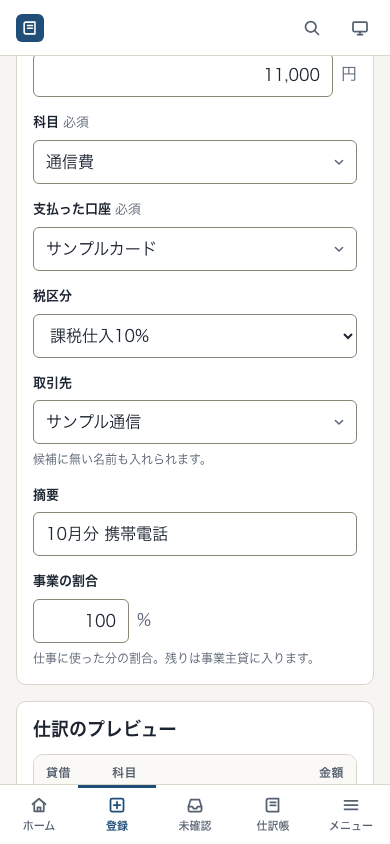
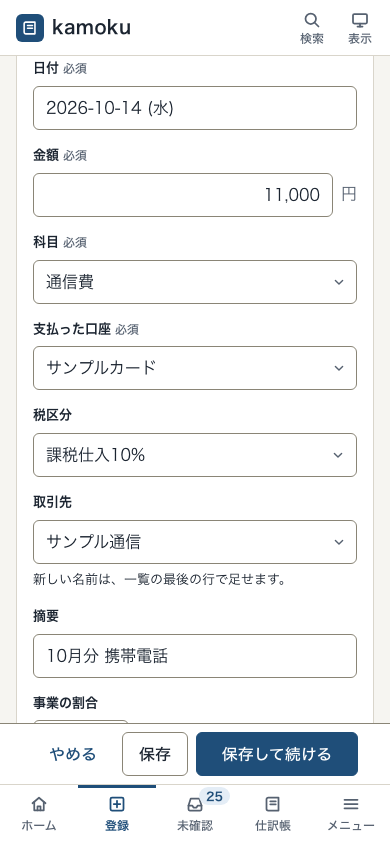
文書と画像: 画面の仕様・利用者向けの文書・権利の確認を、直した画面に合わせる
- 画面の仕様（docs/spec）: キー操作（1文字のショートカットを切る設定、戻り先、保存の帯）、
  各画面の決まり（未確認・取込・帳票・設定・初期設定・通知）、受け入れ条件 AC-10.5・AC-10.6、
  仕訳帳CSVのファイル名
- 利用者向けの文書: 画面の紹介、よくある質問（バックアップから戻す手順）
- 権利の確認記録（docs/legal/rights-check-ui-polish.md）: 依存・書体・画像を足していないこと、
  他社の画面・文言を写していないこと、会計の説明文をサーバーの計算と照らしたこと
- 文書用の画像（docs/images）: 直した画面で撮り直した

diff --git a/docs/spec/screens-main.md b/docs/spec/screens-main.md
@@ -4,6 +4,8 @@
 
 共通の枠は、左のサイドバー（幅1024px以上）と、画面下の5項目のバー（幅768px未満。ホーム・登録・未確認・仕訳帳・メニュー。メニューは全項目を引き出しで出す）です。768〜1023pxは、閉じられるサイドバーにします。サイドバーは「ホーム」「取引（登録・未確認・取込・仕訳帳）」「帳票」「登録簿（口座・勘定科目・取引先）」「設定」の順です。
 
+高さが520px以下の画面（文字を200%に拡大した画面など。幅767px以下）では、下のバーを隠し、上の帯の「メニュー」から全項目を開きます。下に固定した帯（確定の帯など）は画面の下の端に付けます。
+
 ## SC-01 ホーム `#/`
 
 ```
@@ -20,9 +22,10 @@
 ```
 
 - 一番上は「次にやること」。未確認が0件なら「未確認はありません」と、次の候補（月末なら帳票の確認）を出す。
-- 数字には、前の月との差を添える。利益が負なら「赤字」と書く。
+- 数字には、前の月との差を添える。利益が負なら「赤字」と書く。今月（と、記録のある先の月）はまだ途中なので、差と矢印の代わりに前の月の実額を「9月は 500,500円（1か月分）」と添える（丸1か月と比べると大きなマイナスに見えるため）。前の月が開業前なら何も出さず、開業した月で開業日が1日でなければ「1か月分」とは書かない。
+- 年の利益の期間は、開業日がその年の途中で、開業の月より前に記録が無いときだけ「4月〜10月」と書く。記録があれば、サーバーの集計どおり「1月〜」のまま。
 - 台帳の状態には、整合性（OK/要確認）、末尾のハッシュの先頭8桁、写し取るボタンを置く。
-- グラフは、今月より後の月を描かない（0へ落ちたように見えるため）。過去の年は12か月すべて描く。
+- グラフは、今月より後の月を描かない（0へ落ちたように見えるため）。過去の年は12か月すべて描く。凡例は名前だけ（売上・経費・利益）にし、棒・線・点の見分け方は凡例の下の1行にまとめる。赤字の月には、その月の列の真下（枠の下の帯）に額（例「-2.5万」）を添える。棒や点の上には載せない。隣り合う月で重なるときは次の段へずらし（段は2つまで）、それでも置けない月だけ省く。
 - 状態: 読込中は骨組み表示、データなしは「最初の取引を登録しましょう」。
 
 ## SC-02 取引を登録 `#/entry`、訂正 `#/entry/<id>`
@@ -43,7 +46,7 @@
 
 - 振替は、科目の代わりに「移動先の口座」を選ぶ。税区分と割合は出さない。
 - 免税事業者のときは、税区分の欄を隠す。隠れている間は、科目の既定の税区分を入れず、空（対象外）で送る。「詳細」で欄を出したときだけ、科目の既定値が入る。
-- 「仕訳で入力」に切り替えると、行を足せる表（借貸・科目・金額・税区分・メモ）になる。貸借の差を常に表示し、0のときだけ保存できる。
+- 「仕訳で入力」に切り替えると、行を足せる表（借貸・科目・金額・税区分・メモ）になる。貸借の差を常に表示し、0のときだけ保存できる。表のすぐ上に、借方と貸方の1行の説明（借方の合計と貸方の合計を同じにする）を置く。幅640px以上は1つの明細を2段にする（1段目: 借方か貸方・科目・金額。2段目: 税区分・メモ・行を消す）。幅390では、長い税区分を選んだときだけ、欄の下に名前を全部出す。
 - 訂正のときは、理由の欄が出る（必須）。元の値との差分を、保存前に見せる。
 - テンプレート（よく使う取引）から入力を呼び出せる。保存時に「テンプレートに登録」を選べる。
 - 「保存して続ける」は金額に戻る。「保存」は、保存した仕訳の詳細（`#/journal/<id>`）を開く。
@@ -51,19 +54,22 @@
 ## SC-03 未確認 `#/inbox`
 
 ```
- 未確認 12件  [口座 v] [検索 /]        確定候補 3件
+ 未確認 12件  [口座 v] [検索 /]        確定する行 3件
  候補 日付       摘要            金額    科目    税  取引先  割合
  [x]  10/01     ○○ストア      -1,650  [消耗品費] ..  ......  100
  [ ]  10/02     ○○鉄道          -420  [        ] ..
  ...
  --------------------------------------------------------------
- 確定候補 3件  入金 0円  出金 8,200円      [確定する  Ctrl+Enter]
+ 確定する行 3件  入金 0円  出金 8,200円      [確定する  Ctrl+Enter]
 ```
 
 - 表は日付の昇順。1ページ200行まで。金額の列は、入金を正、出金を負で右寄せにし、色だけに頼らず符号も付ける。
-- 「確定候補」は画面の中だけの印で、台帳には何も書かない。確定するまでは、やり直しも取消も要らない。
-- 科目が空の行は、確定候補にできない（行に理由を出す）。
-- 行の操作: 取り込まない（`x`）、無視した行の表示、元に戻す。
+- 「確定する行」は画面の中だけの印で、台帳には何も書かない。確定するまでは、やり直しも取消も要らない。
+- 科目が空の行は、確定する行にできない（行に理由を出す）。
+- 行の操作: 無視（`x`）、無視した行の表示、元に戻す（Ctrl/Cmd+Z）。無視は、押した順に1件ずつ送る。押したらすぐ次の行へフォーカスを移し、送っている行は薄く出す。送れなかった行は一覧に戻し、行の下に理由を出す。
+- 科目の欄の仮の文字は「科目（必須）」。税区分の選択肢の名前は、取引を登録する画面と同じ（経過措置の2つだけ、末尾の「（免税事業者等から）」を省き、欄の title に正式な名前を出す）。手で選んでいない空の税区分は、確定したときの扱いを仮の値で見せる: 科目の既定が対象外なら「対象外（既定）」、既定が行の向きで使えない科目は「対象外」、科目が無い行は「科目で決まる」。
+- 列の見出しは「事業の割合」（説明: 仕事に使った分の割合。残りは事業主貸に入る）と「金額（円）」。「くわしく」は、開くと「閉じる」に変わり、名前に行の日付・摘要・金額が入る。確定の通知は、1件なら「No.212」だけにする。
+- 幅600px未満はカードにし、1段目に摘要と、右へ金額と「無視」、2段目に科目と「くわしく」を置く（Tabの順も見た目の順）。印を付けた行には「確定する」の札を出す。高さ520px以下では、確定の帯を1行にする。
 - 空の状態: 「未確認はありません。明細を取り込むか、取引を登録してください」と、2つの入口を出す。
 
 ## SC-04 取込 `#/import`
@@ -72,10 +78,14 @@
 
 - (2)は、先頭20行のプレビューと、日付・摘要・金額の対応を選ぶ欄を並べる。文字コードの判定結果と、符号の向きを直せる。
 - 各行に「新規」「重複」「読めない」を付け、件数を上に出す。読めない行は理由を出す。
-- 取り込み後は「未確認を開く」と「別のファイルを取り込む」を出す。
+- 取り込み後は「未確認を開く」と「別のファイルを取り込む」を出す。(3)で新規が0件なら、要約のすぐ下に「未確認を開く」（その口座で絞った未確認）を出す。
+- 口座は、前に取り込めた口座を初期値にする（ブラウザに覚える。無効にした口座は使わない）。(2)と(3)の「戻る」「確かめる」「N件を取り込む」は、画面の下に付く帯に置く。(3)から「戻る」と、直前に選んだ列の対応が(2)に残る（ファイルを選び直したときと、文字コードを選び直したときだけ、推測に戻る）。
+- 文字コードは選択欄1つにまとめる（「自動で判定（Shift_JIS）」）。日付の列に日付として読めない行が半分を超える列を選んだら、「確かめる」の前に、欄の下で選び直しを促す。
 
 ## SC-05 仕訳帳 `#/journal`、詳細 `#/journal/<id>`
 
 - 絞り込み: 期間・科目・口座・金額の範囲・文字列・状態（有効/取消済み）・種別。条件はアドレスに入れ、戻る操作で復元できる。
-- 一覧の列: No、日付、摘要、借方の科目、貸方の科目、金額、状態。複合仕訳は「ほか2行」と出す。
-- 詳細（右からの引き出し）: 明細の表、取引先、メモ、履歴（登録・訂正・取消を時系列に。理由つき）、訂正と取消のボタン。取消は、理由の入力と、赤系の確認ボタンを要する。
+- 一覧の列: No、日付、摘要（取引先は摘要の下の行に、本文の色で）、借方の科目、貸方の科目、金額（円）、詳細。複合仕訳は「ほか2行」と出す。「詳細」の列に出す札は、訂正と取消の行だけ。入れ物が900px未満のときはカードにし、借方と貸方を別の行に出す（金額に「円」を添える）。ページ送りは、一覧の上と下に置く。
+- 詳細（右からの引き出し）: 明細の表、取引先、メモ、履歴（登録・訂正・取消を時系列に。理由つき。見出しの下に「記録のハッシュ」が何かを1行で書く）、訂正と取消のボタン。取消は、理由の入力と、赤系の確認ボタンを要する。
+- 締めた日以前の仕訳は、詳細を開いた時点で「…まで締めてあるため、この仕訳は訂正も取消もできません。」と出し、訂正と取消のボタンを止める（理由を書いて確定してから断られないように）。
+- 詳細の板を閉じると、開く前の画面へ戻る。元帳やホームから開いたなら、その画面の、開いた行へ。訂正を挟んでも、検索の条件のままの一覧へ戻る。

diff --git a/docs/spec/keyboard.md b/docs/spec/keyboard.md
@@ -8,7 +8,7 @@
 
 1. `event.isComposing` が真なら、何もしない。`preventDefault` もしない（変換の動きを邪魔しないため）。
 2. `event.keyCode` が229のとき、または `compositionend` から50ミリ秒以内のEnterは、アプリの処理をしない。ただし `preventDefault` する。Safariは、変換を決めるEnterの `keydown` を、`compositionend` の**後**に、`isComposing` を偽にして送るので、そのままだとフォームの暗黙の送信や保存が動いてしまう。
-3. `event.repeat` が真のEnter（押しっぱなし）は、保存・確定候補の処理をしない。
+3. `event.repeat` が真のEnter（押しっぱなし）は、保存・確定の処理をしない。
 4. それ以外を、通常のキー操作として扱う。
 5. 科目や取引先の候補欄は、変換中の文字（`compositionupdate`）でも候補を絞る。選ぶのは、変換が終わってからのEnterか矢印だけにする。
 
@@ -27,7 +27,13 @@
 | `n` | 取引を登録 |
 | `/` | 一覧の検索欄へ |
 | `?` | ショートカットの一覧 |
-| Esc | 閉じる、取り消す、候補を閉じる |
+| Esc | 閉じる、取り消す、候補を閉じる。検索欄では、欄から抜ける |
+
+**1文字のキーは切れる**（WCAG 2.1.4、AC-10.5）。ショートカットの一覧の小窓（`?`、サイドバーの「ショートカット」）の先頭にある「1文字のショートカットを使う」と、Ctrl/Cmd+K の「1文字のショートカットを切り替える」で切り替える。既定は使う。設定はブラウザに覚える（端末ごと）。
+
+- 切ると止まるもの: 文字の欄の外で押す、修飾キーなしの1文字。`g` のあとの文字、`n`、`/`、`?`、画面が決めた `1` `2` `3`（登録）・`j` `k` `e` `v` `[` `]`（仕訳帳）・`[` `]`（帳票）。表の該当する行に「いま切ってあります」と出る。
+- 切っても働くもの: Ctrl/Cmd を伴うキー、Esc、Enter、Tab、矢印、部品にフォーカスがあるときだけ働くキー（未確認の行の `x` と Shift+Space、日付の欄の `t` `+` `-`、種別の欄の `1` `2` `3`、候補の一覧の矢印）。
+- 切っても、キーの表示と `aria-keyshortcuts` は残る。隠すかどうかは未決（`spec-issues.md`）。
 
 ## 取引の登録
 
@@ -37,26 +43,37 @@
 - 日付の欄: `t` で今日、上下の矢印と `+` `-` で1日ずつ。「1005」「10/5」「20261005」を受け付ける。
 - 金額の欄: 全角の数字、カンマ、`1000+650` のような四則を受け付ける。
 - 科目と口座の欄: 打った文字で絞る。漢字、ひらがなの読み、コードのどれでも探せる。上下の矢印で選び、Enterで決める。
+- 科目と口座の欄で、打った文字に合う候補が無いまま Enter を押しても、次の欄へは進まない。「合う科目がありません」の一言を出し直す（保存まで気づけないため）。科目の候補には、口座の親の科目（現金・預金）を出さない。口座の「現金」だけが出る（AC-02.9）。
+- 事業の割合の欄は、入ったら全体が選ばれる（Enterで入っても、Tabで入っても同じ）。範囲外（0〜100の整数でない）になった時点で、欄の下に誤りを出す。
+- 取消と訂正の確認の小窓は、保存の画面を開いたキーと同じ Ctrl/Cmd+Enter でも進める（ボタンにもキーを書く）。
+- Tab の順は、最後の欄 → やめる → 保存 → 保存して続ける → テンプレートに登録。「入力の形」のタブは ← → で選び、選んでもフォーカスはタブに残る（マウスで押したときは最初の欄へ移る）。
+- 保存で誤りがあれば、保存の帯に「2か所を直してください：金額、科目」と出す（`role="alert"`）。保存を試みたときの結果なので、欄を直したり入力の形を切り替えたりすると消える。「仕訳で入力」では「1行目の科目」「貸借の差」のように行の番号をつける。明細の欄の名前も「1行目 科目」「2行目を消す」のように行の番号を含み、行を足す・消すたびに振り直す。
+- 締めた日以前の日付は、欄を確定した時点で、締めた日つきで断る（「2026年9月30日まで締めてあるため、この日付には登録できません。」）。サーバーに断られた文にも、締めた日と直し方を入れる（AC-06.3）。
 
 ## 未確認の一覧
 
 | キー | 動き |
 |---|---|
-| 上下の矢印 | 同じ列の隣の行へ（候補欄が閉じているとき） |
+| 上下の矢印 | 同じ列の隣の行へ（候補欄が閉じているとき）。**税区分の欄では、値を1つずつ切り替える**（行は移らない） |
 | Tab / Shift+Tab | 次のセル、前のセルへ |
-| Enter（科目の候補が開いていて、印がある） | その候補を選び、行を確定候補にして、次の行の科目の欄へ進む（1回で済む） |
-| Enter（候補が閉じている） | 科目があれば、行を確定候補にして次の行へ。無ければ「科目を選んでください」と出して動かない |
-| Ctrl/Cmd+Enter | 確定候補を確定する（先に、件数と、入金の合計・出金の合計の確認が出る） |
-| `x`（行にフォーカス） | 取り込まない |
-| Shift+Space | 確定候補の印を付ける、外す。印は、絞り込みやページを変えても保たれる |
+| Enter（科目の候補が開いていて、印がある） | その候補を選び、行を確定する行にして、次の行の科目の欄へ進む（1回で済む） |
+| Enter（候補が閉じている） | 科目があれば、行を確定する行にして次の行へ。無ければ「科目を選んでください」と出して動かない |
+| Ctrl/Cmd+Enter | 確定する行を確定する（先に、件数と、入金の合計・出金の合計の確認が出る） |
+| `x`（行にフォーカス） | 無視する |
+| Ctrl/Cmd+Z（欄に入力していないとき） | 最後に無視した行を戻す |
+| Shift+Space | 確定する行の印を付ける、外す。印は、絞り込みやページを変えても保たれる。画面を離れたり読み込み直したりすると消える（科目・税区分・取引先・割合は、下書きに保存されているので残る） |
 
 ## 仕訳帳
 
-`j` `k` または上下の矢印で行を動かし、Enterで詳細を開く。`e` で訂正、`v` で取消、`[` と `]` で前の月と次の月へ移る。
+`j` `k` または上下の矢印で行を動かし、Enterで詳細を開く。`e` で訂正、`v` で取消、`[` と `]` で前の月と次の月へ移る。検索欄で ↓ を押すと、一覧の先頭の行へ移る（Enter の前の打ちかけの文字があれば、先に探してから移る）。
+
+取消や訂正のあとは、一覧を読み直しても、その仕訳の行へフォーカスを戻す。詳細の板を閉じると、開く前の画面へ戻り、開いた行へフォーカスを戻す。元帳やホームから開いたときはその画面へ、仕訳帳の一覧から開いたときは検索の条件のままの一覧へ戻る（訂正の画面のアドレスの `back` に戻り先を持ち回る）。
 
 ## フォーカスと読み上げ
 
 - フォーカスの輪は、ライトとダークの両方で3:1以上の差があり、常に見えること。
-- 画面を切り替えたら、本文の見出しへフォーカスを移す。
-- 通知とエラーは `aria-live` で読み上げる。
+- 画面を切り替えたら、本文の見出しへフォーカスを移す。**ただし、取引の登録・訂正の画面は、最初の入力欄（新規は日付、訂正は金額）へ移す。** `n`・`e` は、打ち始めるために開くので、見出しから日付まで Tab を4回押させない（2026-10-15 の体験の評価で、評価者2人が指摘）。見出しは、ページの表題と、フォームの名前（`aria-labelledby`）で読み上げに伝える。
+- 通知とエラーは `aria-live` で読み上げる。通知は、開いている小窓（`<dialog>`）より前面に出す。操作つきの通知は、10秒以上出し、焦点やマウスが乗っている間は消さない。置き場所は[画面の仕様（2）](screens-other.md)。
+- 欄を出た時点の誤りは、欄の下の読み上げの領域（空のうちから置いた `aria-live="polite"`）で知らせる。同じ文を入れ直しても読み直さず、保存で新しく出た誤りだけが、欄ごとに1回読まれる。
+- Ctrl/Cmd+K のコマンド一覧は、「編集」「修正」「削除」と打っても、訂正・取消の項目が出る（どちらも仕訳帳へ移る）。
 - 先頭に「本文へ移動」のリンクを置く。

diff --git a/docs/spec/screens-other.md b/docs/spec/screens-other.md
@@ -9,9 +9,10 @@
 - 期間の選び方は共通で、「年」「月」「自由な期間」。自由な期間は、同じ暦年の中だけ（またぐと理由を出す）。貸借対照表は日付を1つ選ぶ。選んだ期間はアドレスに入れる。
 - 各画面の右上に「CSVで書き出す」を置く。文字コードを選べる（既定はBOMつきUTF-8）。
 - 表は、親の科目の下に子の科目をインデントして並べ、親の行に合計を出す。負の数は「-1,200」と符号で示す。
-- 月次推移は、棒グラフ（売上と経費）と線（利益）に、同じ数字の表を並べる。グラフには、読み上げ用の要約文を付ける。
-- 総勘定元帳は、科目を選ぶと、日付順の行と残高の推移を出す。行から仕訳の詳細に飛べる。
-- 消費税は、税区分ごとの課税標準と税額、経過措置の内訳、納付額の見込み（参考）を出す。画面の上に「参考値。簡易課税・特例は反映していません」と常に出す。免税事業者の設定のときは、冒頭に「設定上は免税事業者として表示しています。申告の要否は、国税庁の案内か税理士に確かめてください」と出す。
+- 自由な期間で始めが終わりより後なら、誤りを始めの欄に結び付けてフォーカスを移し、打ち直したら消す。誤りのあいだは、見出しの横に「前の期間（2026-04-01 〜 2026-06-30）を表示中です。」と出し、表は前の期間のまま残す（AC-08.7）。
+- 月次推移は、棒グラフ（売上と経費）と線（利益）に、同じ数字の表を並べる。グラフには、読み上げ用の要約文を付ける。表の直前に「表は今月までです。11月と12月は、その月になるか、記録ができたら出ます。」と書く。
+- 総勘定元帳は、科目を選ぶと、日付順の行と残高の推移を出す。行（`data-entry-id` を持つ）から仕訳の詳細に飛べ、`j` `k` で行を動かせる。選んだ科目が子の口座を持つとき（「普通預金・その他の預金」など）は、表の上に「この科目の動きは、口座「…」の側にあります。」と、同じ期間の口座ごとの元帳へのリンクを出す（親に直接の記帳があるときは、その旨に文を変える）。科目の候補は、口座の種類の言葉（よきん・ふつう・くれじっと など）でも探せる。口座を先に並べる（同じ名前の親の科目は直接の記帳しか出ず、先頭で選ばれると0行になるため）。合うものが無いときは探し方の一言を出す。
+- 消費税は、税区分ごとの課税標準と税額、経過措置の内訳、納付額の見込み（参考）を出す。画面の上に「参考値。簡易課税・特例は反映していません」と常に出す。注意は、どの幅でも1行の要点と「くわしく」に畳み、納付額の見込みと表を先に出す。税額の説明を一言添える: 売上税額は明細ごとの税額（登録時に端数を処理した額）の合計。仕入税額は、通常の仕入れは明細ごとの税額の合計、経過措置の仕入れは控除できる割合を掛けた額の合計。どちらも税込の合計から出した額と数円ちがうことがある。免税事業者の設定のときは、冒頭に「設定上は免税事業者として表示しています。申告の要否は、国税庁の案内か税理士に確かめてください」と出す。
 
 ## SC-07 口座 `#/wallets`
 
@@ -27,7 +28,7 @@
 
 ## SC-10 設定 `#/settings`
 
-- 事業者: 事業者名、開業日、課税の区分（免税/課税）、登録番号、消費税の端数処理（切捨て/四捨五入/切上げ）。
+- 事業者: 事業者名（必須。空のまま保存すると、欄の下に誤りを出して欄へ移る）、開業日、課税の区分（免税/課税）、登録番号、消費税の端数処理（切捨て/四捨五入/切上げ）。開業日の説明は、初期設定と同じ文にする（下）。幅1280px以上は、節の中を左右2列に並べる。
 - 締め: 「この日以前は変更しない」日付。
 - 期首残高: 初期設定と同じ入力で見直せる（仕訳帳からは訂正できない）。
 - データ: 整合性の検査、末尾のハッシュの写し取りと照合、バックアップ、JSONとCSVの書き出し。
@@ -35,11 +36,17 @@
 
 ## SC-00 初期設定 `#/setup`
 
-初回だけ出る、4段階の画面です。(1)事業者名と課税の区分。(2)口座を足す（現金は最初から1つ用意）。(3)期首残高（開業日の残高。分からなければ0で進める）。(4)確認して始める。各段階で保存し、戻れる。
+初回だけ出る、4段階の画面です。(1)事業者名と課税の区分。(2)口座を追加（現金は最初から1つ用意）。(3)期首残高（開業日の残高。分からなければ0で進める）。(4)確認して始める。各段階で保存し、戻れる。
+
+- 閉じて開き直すと、最後に保存した段階の次から始め、済んだ段階には印を残す。保存したかどうかは、サーバーに保存された事業者名と開業日、期首残高の仕訳の有無で決める（期首残高をすべて0円で保存すると仕訳ができず、(3)は済みと読めない）。
+- 文字の欄のEnterは次の欄へ進み、最後の欄のEnterは「保存して次へ」と同じ。変換中のEnterとボタンの上のEnterは、今までどおり。
+- 開業日の欄の説明は、設定と同じ2行にする: 「この日より前の日付で取引を登録するときは、確認が出ます。期首残高の日付の初期値にもなります。」「年の途中から記帳を始めるときは、その年の1月1日にすると、年の帳票の「期首」の列に、期首残高が入ります。」
+- (4)の確認画面に、科目ごとの期首残高と元入金を並べる。完了の通知は8秒出す。
 
 ## 共通の部品
 
 - 通知（トースト）: 3〜5秒で消える。読み上げに対応し、フォーカスを奪わない。エラーは自動で消さない。
+- 通知の置き場所は、フォーカスのある欄・表の行・小窓の見出し（閉じる）と下のボタンの並び（保存・確定）に重ねない。小窓が無いとき、幅767px以下は上の帯のすぐ下、広い幅は本文の上の真ん中（そこに押せる物があれば右下）。小窓が開いているときは、外に余白があれば外（1440pxの仕訳の詳細なら板の左）、無ければ見出しの下、次に下のボタンの並びの上。フォーカスが通知の下の欄へ移ったら、通知のほうがどく。通知の中のボタンにフォーカスがある間は動かさない。続けて無視したときの「元に戻す」の通知は、新しいものが前のを置き換えて1つだけ出す（積み重なると表の操作を覆うため。前の行は ⌘Z か「無視した行」から戻せる）。
 - 確認の画面: 取り消せないこと（取消・確定）の前に出す。取消は理由、確定は件数と合計。
 - 空の状態: 何も無い理由と、次の一手を1つ出す。
 - 読込中: 300ms以上かかるときだけ、骨組みを出す。

diff --git a/docs/legal/rights-check-ui-polish.md b/docs/legal/rights-check-ui-polish.md
@@ -1,0 +1,48 @@
+# 権利の確認記録（画面の直し）: 新しい依存・素材・他社の表現は足していない
+
+画面の直し（`ui/`、`e2e/`、`docs/screens.md` と画像）で、新しく足したものの権利と規約を確認した記録です（確認日は2026-10-15）。結論は3つです。依存・書体・画像・アイコンは、新しく足していません（選択欄の矢印とチェックの印は、自作の線画です）。他社の画面・文言・配色を写していません。互換を約束するように読めた設定の文は、事実に合わせて直しました。弁護士・弁理士・税理士の確認は受けていません。全体の方針は[ライセンス方針](license-policy.md)、公開前の確認は[権利と規約の確認記録](rights-check.md)にあります。
+
+## 足したものと、その出どころ
+
+| 種類 | 内容 | 出どころ |
+|---|---|---|
+| 依存 | なし | `Cargo.toml`・`Cargo.lock`・`e2e/package.json`・`e2e/package-lock.json` は変えていない。画面は、依存0（素のJavaScriptとCSS）のまま |
+| 書体 | なし | 端末の標準書体のまま（`ui/css/tokens.css` の `--font-sans`）。ウェブフォントは使わない |
+| 画像・アイコン | 選択欄の矢印、チェックの印 | 自作の線画。CSSの変数に、インラインのSVGとして書いた（外の画像の取得なし） |
+| 日本語の折り返し | 文を塊に分けて、塊の中では折らない部品（`ui/js/components/phrase.js`） | 自作の規則（ひらがなから漢字に変わる所、句読点、閉じ括弧など）。BudouX など既存のライブラリや辞書は使っていない |
+| 文言 | 設定・初期設定・取込・帳票の補足文、消費税の言葉の短い説明 | 作者が書いた文。数字（割合・上限額）は書いていない |
+| 試験・道具 | `e2e/` と `ui/tests/` の試験、色の組の検査 | 自作。新しいファイルには、SPDX の2行を付けた（REUSE検査は全ファイル適合） |
+
+## 他社の画面・文言を写していないか
+
+- 実装と評価の依頼書（`briefs/ui-fix-common.md`、`briefs/ui-experience.md`）に、他社の画面・文言・配色・アイコンを写さないことを書いた。使い慣れた型への近さを見る評価では、**実際の他社製品の画面を見ない・使わない・製品名を出力に書かない**と決めた。評価者には、「一般にこう置かれる型」のレベルの提案だけを求めた。
+- `ui/`、`e2e/`、`docs/screens.md` に、他社の製品名は出ない（検索で確認）。READMEにある名前は、商標の注意書きと、互換や特許など事実の説明だけ。
+- 読み取りレビュー（Codex）の2回目は、他社を写したと断定できる箇所は見つからないと答えた。ただし、他社の画面との見た目の比較は、権利の方針（見て似せない）のため、していない。近づけたのは、操作の流れと使い勝手だけ。
+
+## 規約と、誤解を招く表現
+
+- マネーフォワードの規約 第13条(14)（契約者による競合サービスの開発・改良の禁止）のため、マネーフォワードのサービスは、この作業のどの工程でも使っていない。マネーフォワード形式の書き出しも作っていない。
+- 設定の書き出しの文が、「ほかのソフトで読める形」「ほかのソフト向けの全件」と、他社ソフトとの互換を約束するように読めた。実際は、このソフト独自の形式（`app: "kamoku"`）のJSONで、確定した記録と設定だけが入る。読み取りレビューの指摘で、内容を言う文に直した（「ほかのソフトで使うには、変換が必要です」と添えた）。
+- 事業者名の補足が「帳票の見出しに出ます」と事実と違っていたので、「メニューの上に出ます」に直した。
+- 消費税の言葉の説明は、サーバーの注意書きと、`kamoku-jp-tax` の表（国税庁の一次資料つき）と矛盾しないことを、読み取りレビューで確かめた。
+
+## 個人情報・外部への送信・実データ
+
+- 画面と文書の画像は、すべて `kamoku demo` の合成データ（架空の名前と数字）を撮ったもの。実在の帳簿・口座・人名は使っていない。
+- 画面は、外へ通信しない（`ui/dev/check-policy.mjs` が、外のURL、`fetch` の置き場所、`innerHTML` などを見張る）。体験の評価では、評価者に、手元のサーバー（127.0.0.1）以外の外部サイトを開かないよう、依頼書で指示した（開いていないことの証拠は、取っていない）。
+
+## 第3回（最終）の追加と再確認（2026-10-15）
+
+- 新しく足したもの: 1文字のショートカットを切る設定（ブラウザの `localStorage` に、オンかオフだけを覚える）、通知の置き場所を決める部品（`ui/js/components/toast-place.js`）、グラフの赤字の額、帳票のタブ端のぼかし（CSSの `mask-image`）、元帳の子の口座への案内、初期設定の再開、各画面の補足文。いずれも自作で、**依存・書体・画像・アイコンは足していない**。
+- 再確認した事実: `git diff HEAD --stat -- Cargo.toml Cargo.lock e2e/package.json e2e/package-lock.json crates/*/Cargo.toml` は空（依存は無変更）。`ui/`・`e2e/`・`crates/` に他社の製品名は出ない（検索）。新しいファイルはすべて SPDX の2行を持ち、REUSE検査は全ファイル適合（`tools/check-all.sh`）。
+- 独立レビュー（Codex・第3段）は、新しい日本語に、他社固有の文言や、他社ソフトとの互換を約束する追加は見当たらないと答えた（他社の画面は調べていない）。
+- 会計の説明は、サーバーのコードと照らして直した。消費税の「仕入税額」の説明は、経過措置の仕入れで、控除できる割合を掛けた額を足している事実と食い違っていたので、直した。開業日の説明の2文目は、期首残高の仕訳が帳票の期間の開始日と同じ日付のときだけ「期首」の列に入る（`crates/kamoku-books/src/reports/mod.rs` の `counts_as_opening`）事実に合わせて、言い直した。税の判断（課税か非課税か）は、画面に書いていない。
+
+## 確認できていないこと
+
+1. 弁護士・弁理士・税理士による確認。
+2. J-PlatPat での、商標「kamoku」の検索（本人の宿題のまま）。
+3. Safari・Firefox・iPhone の実機・日本語入力の実機での見え方と操作（通し試験は Chromium だけ）。
+4. 文字を200%に拡大したときの実描画（部品は、塊が枠より長いときだけ中で折れるようにしてあるが、実測していない）。
+5. 実際の読み上げソフト（VoiceOver・NVDA）での聞こえ方。保存の帯の一言（`role="alert"`）と、各欄の誤りの領域（`aria-live="polite"`）が重なって読まれるかは、確かめていない。
+6. Windows の書体での文字幅。幅1440の未確認の表で、税区分の欄の余りは3px（Macのヒラギノで測った）。

diff --git a/docs/spec/api-inbox.md b/docs/spec/api-inbox.md
@@ -15,7 +15,7 @@
   "warnings": [], "saved": null }
 ```
 
-`saved` は、その口座に覚えさせた対応（`wallet` を付けて問い合わせたとき）。壊れたCSVは `400 invalid_csv` で、行番号（`line`）を入れる。`rows` はファイル全体の行数（見出しを含む）、`header` は推測した読み飛ばしの行の直前の行、`sample` はその後ろの20行。見本の表の番号は見本の中の順で、ファイルの行番号ではない（確かめの `line` がファイルの行番号）。
+`saved` は、その口座に覚えさせた対応（`wallet` を付けて問い合わせたとき）。壊れたCSVは `400 invalid_csv` で、行番号（`line`）を入れる。`rows` はファイル全体の行数（見出しを含む）、`header` は推測した読み飛ばしの行の直前の行、`sample` はその後ろの20行。見本の表の番号は、画面で「ファイルの行」に直して見せる（推測した読み飛ばしの行数＋1から数える。確かめの `line` と同じ数え方）。空の行があるファイルでは、サーバーが空の行を表から外し、見本の行番号を返さないので、空の行より後ろの番号が、空の行の数だけ小さく出る（既知の限界。`/imports/upload` の応えに、見本の各行の行番号を足すと直る）。
 
 ## 列の対応（`mapping`）
 
@@ -67,7 +67,7 @@
 `counts` は、口座・文字・期間の絞り込みに関係なく、帳簿全体の数。
 
 - `PATCH /drafts/{id}`  本文は `date` `account` `tax_code` `partner` `memo` `business_pct` のうち変えるもの。日付は、経過措置の判定に使う課税仕入れの日に合わせて直せる。`confirmed` の行は `409 already_confirmed`。
-- 科目を変えたとき、`tax_code` と `business_pct` を新しい科目の既定値に変えるかは、画面の仕事（サーバーは入れない）。画面の決まり: いまの値が、**変える前の科目の既定値と同じ**なら新しい科目の既定値にする。違えば、利用者が決めた値とみなして残す。
+- 科目を変えたとき、`tax_code` と `business_pct` を新しい科目の既定値に変えるかは、画面の仕事（サーバーは入れない）。画面の決まり: **税区分**は、行ごとに、利用者が手で選んだかを覚える。手で選んでいなければ、科目を変えるたびに、新しい科目の既定値に入れ直す（既定の無い科目は空に戻す）。空の税区分には、確定したときの扱いを仮の値で見せる（科目の既定が対象外なら「対象外（既定）」、既定が行の向きで使えない科目は「対象外」、科目の無い行は「科目で決まる」。空のまま確定すると対象外になる）。読み込んだ行は、科目の既定と違えば、手で選んだものとして残す。手で選んだ値が既定と違う行には、「科目の既定と違います」と出す。**事業の割合**は、いまの値が、変える前の科目の既定値と同じなら新しい科目の既定値にする。違えば、利用者が決めた値とみなして残す。
 - `POST /drafts/{id}/ignore`、`POST /drafts/{id}/restore`。どちらの応えも `{ "id", "status", "entry_id": null }`。無視した行の `PATCH` は `422 bad_request`。
 
 状態の移り方:

diff --git a/docs/ux-five-layers.md b/docs/ux-five-layers.md
@@ -30,13 +30,13 @@
 登録簿: 口座 / 勘定科目 / 取引先      設定: 事業者・締め・データ・見た目
 ```
 
-未確認は自由に直せますが、確定した仕訳は、訂正と取消の手続きでしか変わりません。この違いが、画面全体の構造を決めます。確定の前の「確定候補」は、画面の中だけの印で、台帳には何も書きません。
+未確認は自由に直せますが、確定した仕訳は、訂正と取消の手続きでしか変わりません。この違いが、画面全体の構造を決めます。確定の前の「確定する行」は、画面の中だけの印で、台帳には何も書きません。
 
 ## 骨格: 表1枚、フォーカスはキーボードで動かす
 
 取引の登録は、1画面に入力欄と仕訳のプレビューを並べます。保存すると、種別・日付・口座を残して金額に戻ります。連続して入れるときに、手を止めないためです。
 
-未確認の画面は表1枚で、行の中はTab、行の移動は矢印、Enterで確定候補、Ctrl/Cmd+Enterで確定です。一番こだわるのは、日本語入力の変換中のEnterです。変換を決めるEnterが、仕訳の確定や候補の選択として働いてはいけません。決めごとは[キー操作](spec/keyboard.md)に書きました。
+未確認の画面は表1枚で、行の中はTab、行の移動は矢印、Enterで確定する行に入れ、Ctrl/Cmd+Enterで確定します。一番こだわるのは、日本語入力の変換中のEnterです。変換を決めるEnterが、仕訳の確定や候補の選択として働いてはいけません。決めごとは[キー操作](spec/keyboard.md)に書きました。
 
 ## 表層: 数字は右寄せ、色だけに頼らない
 
@@ -52,7 +52,7 @@
 4. [要件] 事業の割合は、科目ごとに利用者が決めた既定値だけを使う。過去の入力から推測する案は、自動仕訳の特許の確認が済むまで入れない。
 5. [要件] 振替は、科目ではなく「移動先の口座」を選ぶ形にする。
 6. [構造] 取引先の名前を、台帳のハッシュの対象にする。そのため、`kamoku-ledger` に付随情報（`meta`）を足す。
-7. [構造] 「確定候補」は画面だけの印にし、確定を明示の操作にする。取り消すための追記で、台帳を汚さずに済む。
+7. [構造] 「確定する行」は画面だけの印にし、確定を明示の操作にする。取り消すための追記で、台帳を汚さずに済む。
 8. [構造] ホームの数字は1回の通信にまとめる。小さな通信を重ねると、画面の描画が遅れる。
 9. [構造] 免税事業者では、税区分の欄を既定で隠す。作者の設定が免税で、欄が多いと記帳が遅くなる。
 10. [骨格] 科目の候補は、変換中の文字でも絞り、選ぶのは変換後のEnterだけにする。Safariの変換直後のEnterは、50ミリ秒の窓で無視する。

diff --git a/docs/spec/stories-record.md b/docs/spec/stories-record.md
@@ -28,6 +28,7 @@
 - AC-02.6 [rust] 貸借が合わない、金額が0以下、存在しない科目などは保存せず、原因と直し方を日本語で返す。
 - AC-02.7 [rust] 同じ `client_id` の再送は、二重に登録せず最初の結果を返す。
 - AC-02.8 [rust] 相手科目が口座のとき（カードの引き落としなど）は、税区分と事業の割合を断る。同じ口座どうしの振替も断る。
+- AC-02.9 [node] 記帳の科目の候補には、口座の親の科目（現金・預金）を出さない。口座を足してあるのに親へ直接記帳すると、ホームの口座の残高が貸借対照表の現金とずれ、「現金」が2つ並んで紛れるため。訂正で元の仕訳が親を使っているときだけ、その科目を残す。カードの親（未払金）は、口座の無い未払いにも使うので出す。
 
 ## US-03 家事按分をする
 
@@ -57,12 +58,12 @@
 ユウさんは、1件ずつ科目を決めながら、Enterで次へ進み、最後にまとめて確定したい。
 
 - AC-05.1 [e2e] 一覧は、上下の矢印で行を、Tabでセルを動かせる。科目の欄に文字を打つと候補が絞られる。ひらがなの読みでも絞れる。
-- AC-05.2 [e2e] 日本語入力の変換中のEnterは、候補の選択にも、確定候補への登録にも働かない。変換を確定してから押したEnterだけが働く。
-- AC-05.3 [e2e] Enterで行を「確定候補」にして次の行へ進む。Ctrl/Cmd+Enterで候補をまとめて確定する。確定の前に、件数と合計を見せる。
+- AC-05.2 [e2e] 日本語入力の変換中のEnterは、候補の選択にも、確定する行への登録にも働かない。変換を確定してから押したEnterだけが働く。
+- AC-05.3 [e2e] Enterで行を「確定する行」にして次の行へ進む。Ctrl/Cmd+Enterで候補をまとめて確定する。確定の前に、件数と合計を見せる。
 - AC-05.4 [rust] 科目が空の行は確定せず、理由を行ごとに返す。残りの行は確定する。
 - AC-05.5 [rust] 確定した行は仕訳になる。取り込み元の口座が、出金なら貸方、入金なら借方に入る。
 - AC-05.6 [manual] 合成データ100件を、ファイルを選ぶところから、確定の完了まで、作者がキーボードだけで行う時間を測って記録する。目標は5分以内。
-- AC-05.7 [e2e] 「取り込まない」にした行は一覧から消え、「無視した行」から戻せる。
+- AC-05.7 [e2e] 「無視」にした行は一覧から消え、「無視した行」から戻せる。
 
 ## US-06 仕訳帳で探して直す
 

diff --git a/docs/spec/data-model.md b/docs/spec/data-model.md
@@ -31,7 +31,7 @@
 2. **起動のたびに、連鎖を最初から検証する。** 失敗したら読み取り専用で起動し、最初に壊れた連番と規則を画面に出す。自動で直さない。
 3. **書き込みの順序。** 入力を `Entry::new` で検証し、メモリ上の `Ledger` に追記し、同じイベントを1つのトランザクションでSQLiteへ書く。取引先の自動追加、下書きの状態の更新、変更履歴も、**同じトランザクション**に入れる。書き込みが失敗したら、DBから台帳を読み直して、メモリを戻す。
 4. **下書きの重複防止。** 下書きには、(指紋, 出現番号) の一意制約を置く。指紋は、口座・日付・符号つき金額・正規化した摘要のSHA-256（取引番号の列があれば、口座と取引番号）。同じ指紋の行は、ファイルの中の順に1, 2, ... と番号を振る。この方式は、期間が部分的に重なるファイルで、同じ内容の本物の取引を落とすことがある。重複と判定した行は、理由つきで利用者に見せ、選べば取り込める。そのときの出現番号は、その指紋の最大の番号+1にする。
-5. **下書きの状態。** `draft`（未確認）、`confirmed`（確定済み。`entry_id` を持つ）、`ignored`（取り込まない）。確定した行は消さない。指紋を残して、再取込で復活しないようにするため。
+5. **下書きの状態。** `draft`（未確認）、`confirmed`（確定済み。`entry_id` を持つ）、`ignored`（無視）。確定した行は消さない。指紋を残して、再取込で復活しないようにするため。
 6. **科目のコードは変えない。** 一度使ったコードは、再利用も改名もしない。分類（資産・負債・資本・収益・費用）は変えない。無効にはできる。口座は削除できない。
 7. **金額は整数の円。** 1明細は9,999,999,999,999円以下（ブラウザの数値で正確に扱える範囲）。
 8. **時刻は信用しない。** `recorded_at` はこの機械の時計の秒で、信頼できる時刻の証明ではない。

diff --git a/docs/screens.md b/docs/screens.md
@@ -6,7 +6,7 @@
 
 ![ホーム画面。次にやること、月の売上・経費・利益、1年の推移のグラフ](images/home.png)
 
-「次にやること」に、未確認の取引の件数が出ます。月ごとの売上・経費・利益と、1年の推移のグラフがあります。グラフは「表で見る」で、同じ数字の表にも切り替えられます。左のサイドバーの項目の横にある小さな枠は、キーボードのショートカットです（`g` のあとに `h` で、ホームへ）。
+「次にやること」に、未確認の取引の件数が出ます。月ごとの売上・経費・利益と、1年の推移のグラフがあります。グラフは「表で見る」で、同じ数字の表にも切り替えられます。左のサイドバーの項目の横にある小さな枠は、キーボードのショートカットです（`g` のあとに `h` で、ホームへ）。1文字のショートカットは、押し間違いで画面が移ることがあるので、`?` で開く一覧の先頭のチェックで切れます。
 
 ## 取引を登録
 
@@ -16,9 +16,9 @@
 
 ## 未確認の確定
 
-![未確認の一覧。2件が確定候補で、下のバーに件数と金額](images/inbox.png)
+![未確認の一覧。2件が確定する行で、下のバーに件数と金額](images/inbox.png)
 
-取り込んだ明細が並びます。科目を選んで Enter を押すと次の行へ進み、選んだ行が「確定候補」になります。下のバーで件数と金額を見て、Ctrl+Enter（macOSは Cmd+Enter）でまとめて確定します。科目が空の行は、確定候補になりません。確定した仕訳は、あとから理由つきで訂正・取消できます。
+取り込んだ明細が並びます。科目を選んで Enter を押すと次の行へ進み、選んだ行が「確定する行」になります。下のバーで件数と金額を見て、Ctrl+Enter（macOSは Cmd+Enter）でまとめて確定します。科目が空の行は、確定する行になりません。確定した仕訳は、あとから理由つきで訂正・取消できます。
 
 ## 明細のCSVを取り込む
 

diff --git a/docs/faq.md b/docs/faq.md
@@ -52,6 +52,9 @@ macOS、Windows、Linux で動かす設計です。最小のRustは1.88で、い
 **データはどこにありますか。**
 SQLiteのファイル1つ（`kamoku.db`）です。場所は、macOSなら `~/Library/Application Support/kamoku/` です。設定の画面から、バックアップを取れます。普通のSQLiteなので、ほかの道具でも読めます。
 
+**バックアップ（控え）から戻すには。**
+設定の画面にバックアップから戻すボタンはありません。ファイルを置き換えます。`kamoku` を止めてから、帳簿のフォルダにある `kamoku.db` を別の場所へ移し、控え（`kamoku-backup-日付.db`）を `kamoku.db` の名前で、同じフォルダに置いてから起動します。控えは、取った時点の帳簿の複製です。それより後の記録は戻りません。
+
 **帳簿が壊れていないか、どう確かめますか。**
 設定の画面の「台帳を検査する」で、イベントの連鎖を最初から検証します。末尾のハッシュを写し取って、紙やメールなど台帳の外に控えておくと、あとで末尾の削除も見つけられます。連鎖は改ざんを検知するだけで、防ぎません。
 

diff --git a/docs/spec/api-reports.md b/docs/spec/api-reports.md
@@ -57,7 +57,7 @@
 
 | 要求 | 内容 |
 |---|---|
-| `/export/journal.csv?from&to&state=active\|all` | 1行が1明細。列: 仕訳No, 版, 状態, 日付, 摘要, 取引先, 行, 貸借, 科目コード, 科目名, 金額, 税区分, 税額, 行メモ。既定は有効な仕訳だけ |
+| `/export/journal.csv?from&to&state=active\|all` | 1行が1明細。列: 仕訳No, 版, 状態, 日付, 摘要, 取引先, 行, 貸借, 科目コード, 科目名, 金額, 税区分, 税額, 行メモ。既定は有効な仕訳だけ。ファイル名は、期間を決めれば `kamoku-journal-<from>_<to>.csv`、決めなければ書き出した日（JST）の `kamoku-journal-YYYYMMDD.csv` |
 | `/export/trial-balance.csv` `/export/income-statement.csv?by=total\|month` `/export/balance-sheet.csv` `/export/ledger.csv?account` `/export/tax-summary.csv` | 画面の帳票と同じ数字 |
 | `/export/all.json` | 設定、科目、取引先、全イベント（明細・付随情報・ハッシュ）。`schema` の版を持つ |
 | `/export/backup.db` | `VACUUM INTO` で作ったSQLiteの複製 |

diff --git a/docs/spec/nfr.md b/docs/spec/nfr.md
@@ -28,7 +28,7 @@
 ## 見やすさ（WCAG 2.1 AA）
 
 - 文字と背景は4.5:1以上、大きな文字と入力欄の枠、フォーカスの輪は3:1以上（ライトとダークの両方）。`tools` の試験が、色の定義から計算して確かめる。
-- 色だけで意味を伝えない。赤字は文字で、状態（確定候補・取消済み・重複）は文字か記号でも示す。
+- 色だけで意味を伝えない。赤字は文字で、状態（確定する行・取消済み・重複）は文字か記号でも示す。
 - キーボードだけで、すべての機能に届く。Tabの順は画面の並びと同じ。フォーカスの輪を消さない。
 - 入力欄には、見えるラベルを付ける。エラーは入力欄のすぐ下に出し、`aria-describedby` で結ぶ。送信に失敗したら、最初の誤りへフォーカスを移す。
 - 表は `<table>` と見出しセル（`scope`）で作る。並べ替えできる列には `aria-sort` を付ける。グラフには、同じ数字の表と要約文を付ける。
